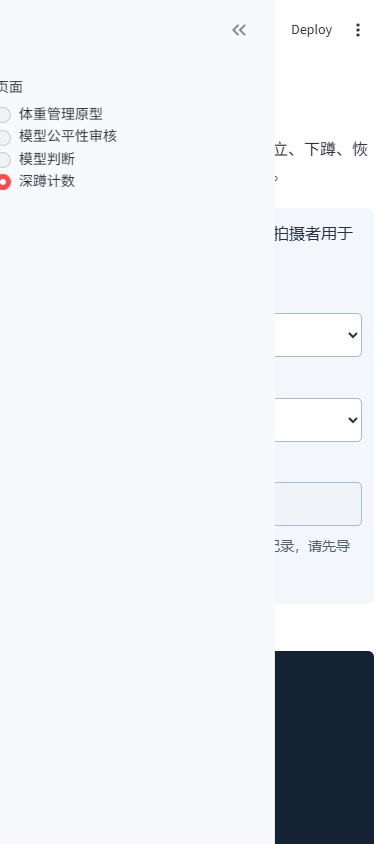
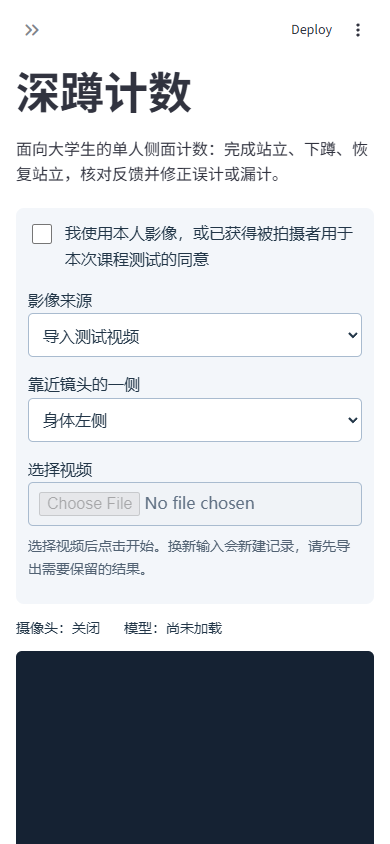
test: 等待侧栏收起后采集窄屏截图

diff --git a/scripts/check_squat_ui.py b/scripts/check_squat_ui.py
@@ -175,6 +175,7 @@ def main():
         frame=open_component(mobile,args.url)
         if mobile.get_by_test_id("stSidebarCollapseButton").count():
             mobile.get_by_test_id("stSidebarCollapseButton").get_by_role("button").click()
+            mobile.wait_for_function("document.querySelector('[data-testid=stSidebar]').getBoundingClientRect().right <= 1")
         iframe=next(f for f in mobile.frames if "squat_counter" in f.url)
         checks["mobile_no_component_overflow"]=iframe.evaluate("document.documentElement.scrollWidth<=innerWidth")
         mobile.screenshot(path=str(args.output/"mobile.png"),full_page=True)
